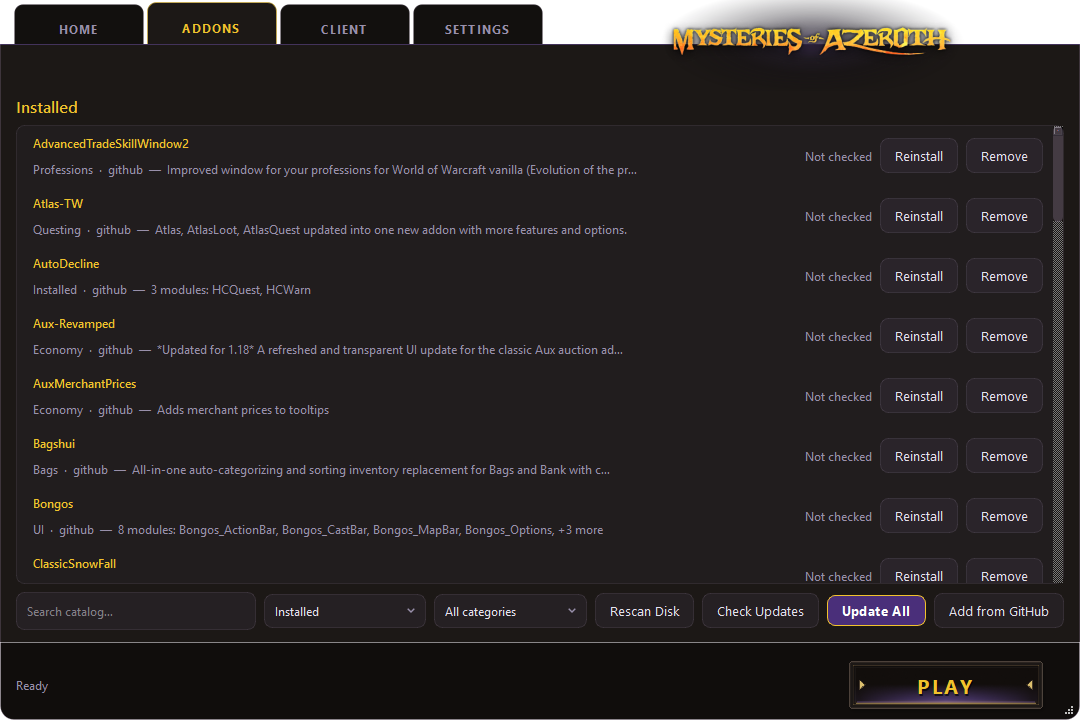
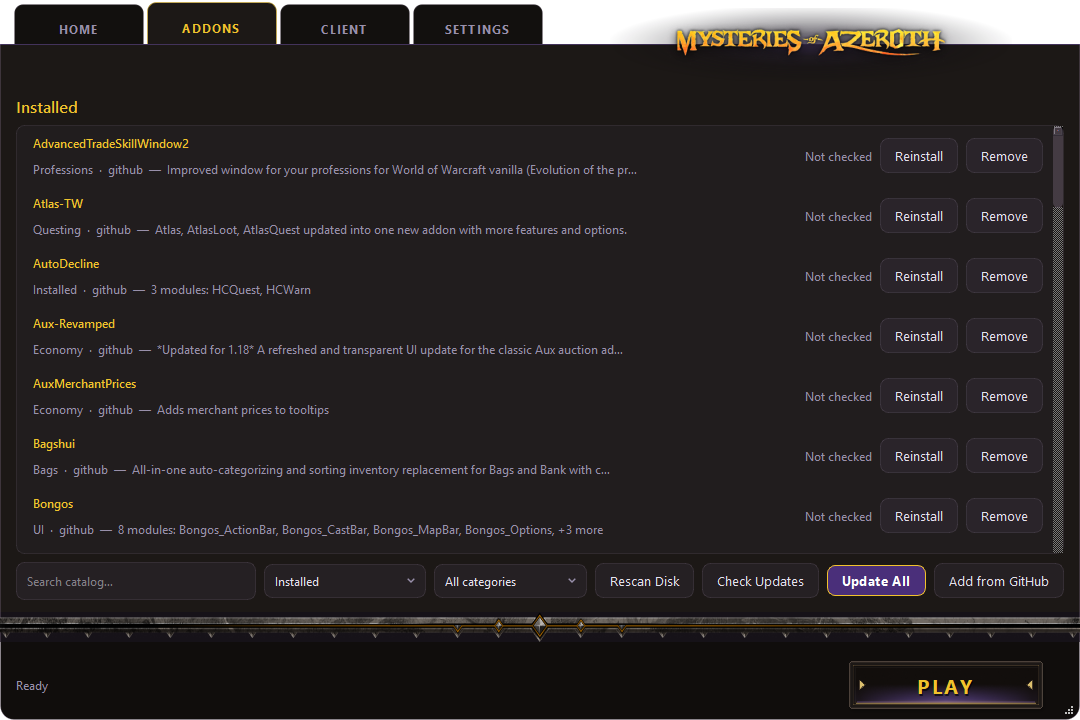
Release v1.0.9: HOME layout polish and user-facing README.
Move launch countdown under the RavenCraft logo so the installed-mods drawer can fill down to the nav banner; refresh screenshots and rewrite the README for players.

diff --git a/ichalaunch/ui/pages/home.py b/ichalaunch/ui/pages/home.py
@@ -123,21 +123,23 @@ class HomePage(QWidget):
         load_l.addWidget(self.loading_bar, 0, Qt.AlignmentFlag.AlignCenter)
         self.loading_wrap.setVisible(False)
 
+        # Countdown sits centered under the RavenCraft logo (not under the mods drawer).
+        self.countdown = LaunchCountdown()
+
         right_l.addStretch(1)
         right_l.addWidget(self.logo, 0, Qt.AlignmentFlag.AlignHCenter)
         right_l.addWidget(sub, 0, Qt.AlignmentFlag.AlignHCenter)
         right_l.addWidget(self.status, 0, Qt.AlignmentFlag.AlignHCenter)
         right_l.addWidget(self.loading_wrap, 0, Qt.AlignmentFlag.AlignHCenter)
+        right_l.addWidget(self.countdown, 0, Qt.AlignmentFlag.AlignHCenter)
         right_l.addStretch(1)
 
         root.addWidget(left, 0)
         root.addWidget(right, 1)
 
-        # Countdown sits at bottom of home, above the global progress/play bar
-        self.countdown = LaunchCountdown()
-
+        # Body fills the content panel down to the nav_bottom banner so the
+        # installed-mods drawer can use the full available height.
         page.addWidget(body, 1)
-        page.addWidget(self.countdown, 0, Qt.AlignmentFlag.AlignHCenter)
 
         self.refresh()
 

diff --git a/ichalaunch/ui/widgets/countdown.py b/ichalaunch/ui/widgets/countdown.py
@@ -40,8 +40,8 @@ class LaunchCountdown(QWidget):
         super().__init__(parent)
         self.setObjectName("LaunchCountdown")
         root = QVBoxLayout(self)
-        # Extra bottom padding so cells sit above the nav_bottom banner, not flush on it.
-        root.setContentsMargins(0, 8, 0, 18)
+        # Compact padding — countdown lives under the HOME logo, not above the banner.
+        root.setContentsMargins(0, 10, 0, 0)
         root.setSpacing(8)
         root.setAlignment(Qt.AlignmentFlag.AlignCenter)
 

diff --git a/ichalaunch/__init__.py b/ichalaunch/__init__.py
@@ -1,4 +1,4 @@
 """IchaLaunch — Ravencraft / Turtle-compatible WoW client launcher."""
 
-__version__ = "1.0.8"
+__version__ = "1.0.9"
 __app_name__ = "IchaLaunch"

diff --git a/README.md b/README.md
@@ -1,8 +1,46 @@
 # IchaLaunch
 
-Python launcher for **RavenCraft** (Turtle 1.18-compatible client).
+**IchaLaunch** is the desktop launcher for **[RavenCraft](https://ravencraft.io/)** — a Turtle WoW–compatible 1.18 client experience. It installs and updates addons, manages client mods and visual packs, keeps itself up to date, and launches the game with one click.
 
-RavenCraft-themed UI inspired by [ravencraft.io](https://ravencraft.io/) and [ichasarmory.quest/gear-planner](https://ichasarmory.quest/gear-planner).
+Download the latest build from **[Releases](https://github.com/brutaliccus/IchaLaunch/releases/latest)**.
+
+---
+
+## Features
+
+- **Play / Install** — point at an existing game folder (or pick where to install), then launch with the metallic **PLAY** button
+- **Home** — RavenCraft branding, launch countdown, and a live list of installed client mods
+- **Addons** — browse the Turtle WoW wiki catalog, search and filter, install or reinstall, and paste any GitHub addon repo
+- **Client** — turn RetroCro / TurtleWoW-style fixes and Visual/QoL packs on or off (VanillaFixes, SuperWoW, Nampower, UnitXP, DXVK, night sky, and more), then **Apply Changes**
+- **Updates** — quiet checks for addon, client-mod, and launcher updates, with gold badges on tabs when something needs attention
+- **Self-update** — when a newer IchaLaunch is available, **PLAY** becomes **UPDATE**
+- **Backups** — copies of changed files live under `<your game>/.ichalaunch/backups/`
+
+---
+
+## Download & install
+
+1. Open the latest release: [github.com/brutaliccus/IchaLaunch/releases/latest](https://github.com/brutaliccus/IchaLaunch/releases/latest)
+2. Download **`IchaLaunch.exe`**
+3. Put it somewhere convenient (next to your game folder is fine — not required)
+4. Run the EXE
+
+No installer is required. Windows may show a SmartScreen prompt for an unsigned download — choose **More info** → **Run anyway** if you trust the release.
+
+---
+
+## First run
+
+1. Open **SETTINGS**
+2. Click **Browse…** and select your Turtle / RavenCraft **game folder** (the folder that contains `WoW.exe`)
+3. Prefer a simple path (for example `D:\Games\RavenCraft`). Avoid `Program Files`, Desktop, Downloads, and Documents when you can — Windows protections there often block client mods
+4. Optional: open **CLIENT**, tick the mods you want, then **Apply Changes**
+5. Optional: open **ADDONS**, install from the catalog or **Add from GitHub**
+6. Click **PLAY** on the bottom bar
+
+Official hosted client zip install is not required if you already have a 1.18 client — just point Settings at that folder.
+
+---
 
 ## Screenshots
 
@@ -22,22 +60,28 @@ RavenCraft-themed UI inspired by [ravencraft.io](https://ravencraft.io/) and [ic
 
 ![Settings](docs/screenshots/settings.png)
 
-### Themed dialog
+---
 
-![Themed dialog](docs/screenshots/themed_dialog.png)
+## Troubleshooting
 
-## Features
+**Windows Defender / Controlled Folder Access blocks VanillaFixes or DLL mods**  
+Allow `IchaLaunch.exe`, `VanillaFixes.exe`, and `WoW.exe`, or move the game out of a protected folder. If a VanillaFixes zip extract fails with a strange path error, Defender is a common cause — retry after an allow-list, or reinstall VanillaFixes from the **CLIENT** tab.
 
-- **PLAY / INSTALL** — pick a game folder or point at an existing client; launches via `VanillaFixes.exe` when enabled
-- **Home** — RavenCraft branding plus launch countdown (same target as ravencraft.io)
-- **CLIENT** — desired-state checkboxes for RetroCro/TurtleWoW-Mods style fixes (Vanilla Tweaks, SuperWoW, Nampower, UnitXP, PerfBoost, no1600x1200, WDB block, VanillaFixes/DXVK) plus automated Visual/QoL MPQs (night sky, Epoch water, fog, darker nights, pink herbs, raid visuals)
-- **ADDONS** — Turtle WoW wiki baseline catalog + paste any GitHub repo; per-row Install, last-updated stamp next to Up to date, Reinstall to force overwrite
-- Quiet update flow — no success popup after addon updates; status bar + Up to date
-- RavenCraft-themed dialogs instead of system message boxes
-- Custom RavenCraft app icon on the window and packaged EXE
-- Backups under `<game>/.ichalaunch/backups/`
+**Addon / update checks fail or feel stuck**  
+GitHub’s anonymous API limit is low. In **SETTINGS → GitHub API**, paste a personal access token (no special scopes needed for public repos). It only raises the local rate limit and stays on your PC.
 
-## Run from source
+**PLAY does nothing / “Client not found”**  
+Confirm **SETTINGS** points at the folder that contains `WoW.exe`, then click **Verify**.
+
+**Gold dots on ADDONS or CLIENT**  
+Those tabs have pending updates or unapplied client changes — open the tab and update / apply.
+
+More help and downloads: **[Releases](https://github.com/brutaliccus/IchaLaunch/releases)**.
+
+---
+
+<details>
+<summary>For developers</summary>
 
 ```bat
 cd F:\Launcher
@@ -45,21 +89,12 @@ python -m pip install -r requirements.txt
 python run.py
 ```
 
-## Build EXE
+Build the EXE:
 
 ```bat
-cd F:\Launcher
 python -m PyInstaller IchaLaunch.spec --noconfirm
 ```
 
-Output: `F:\Launcher\dist\IchaLaunch.exe`
+Output: `dist\IchaLaunch.exe`
 
-## First trial
-
-1. Open IchaLaunch
-2. Settings → Browse → select your existing game folder (e.g. `F:\capybara wow v1181\capybara wow v1181\Game`)
-3. CLIENT → toggle desired mods → Apply Changes
-4. ADDONS → install from catalog or paste a GitHub URL
-5. PLAY
-
-Official Ravencraft client zip hosting is not wired yet — use Browse to an existing 1.18 client.
+</details>
